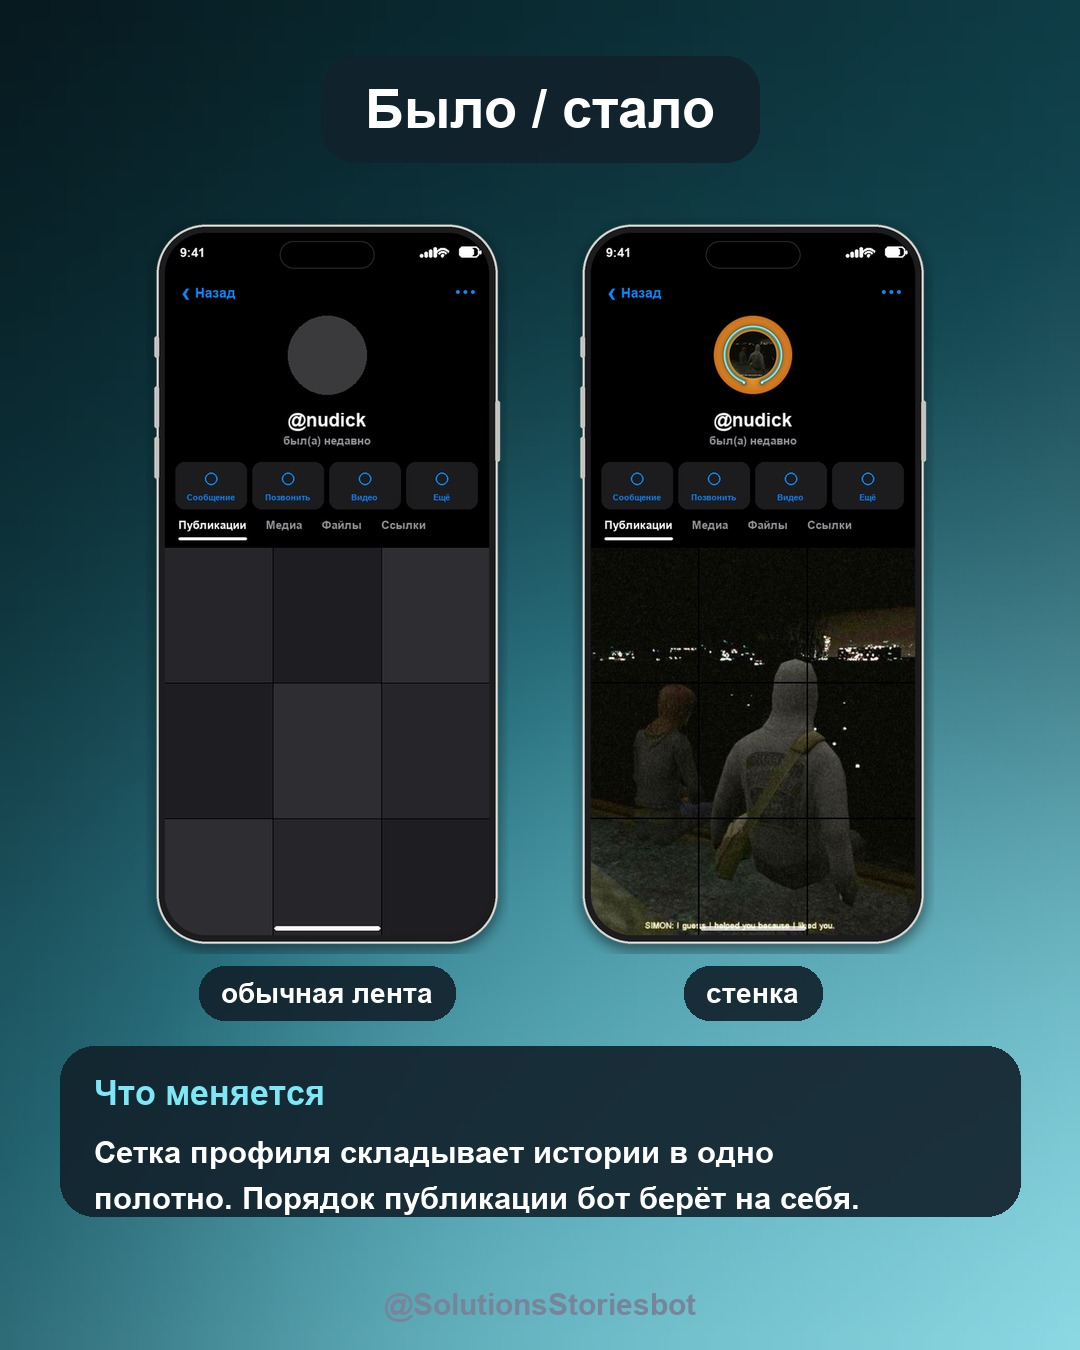
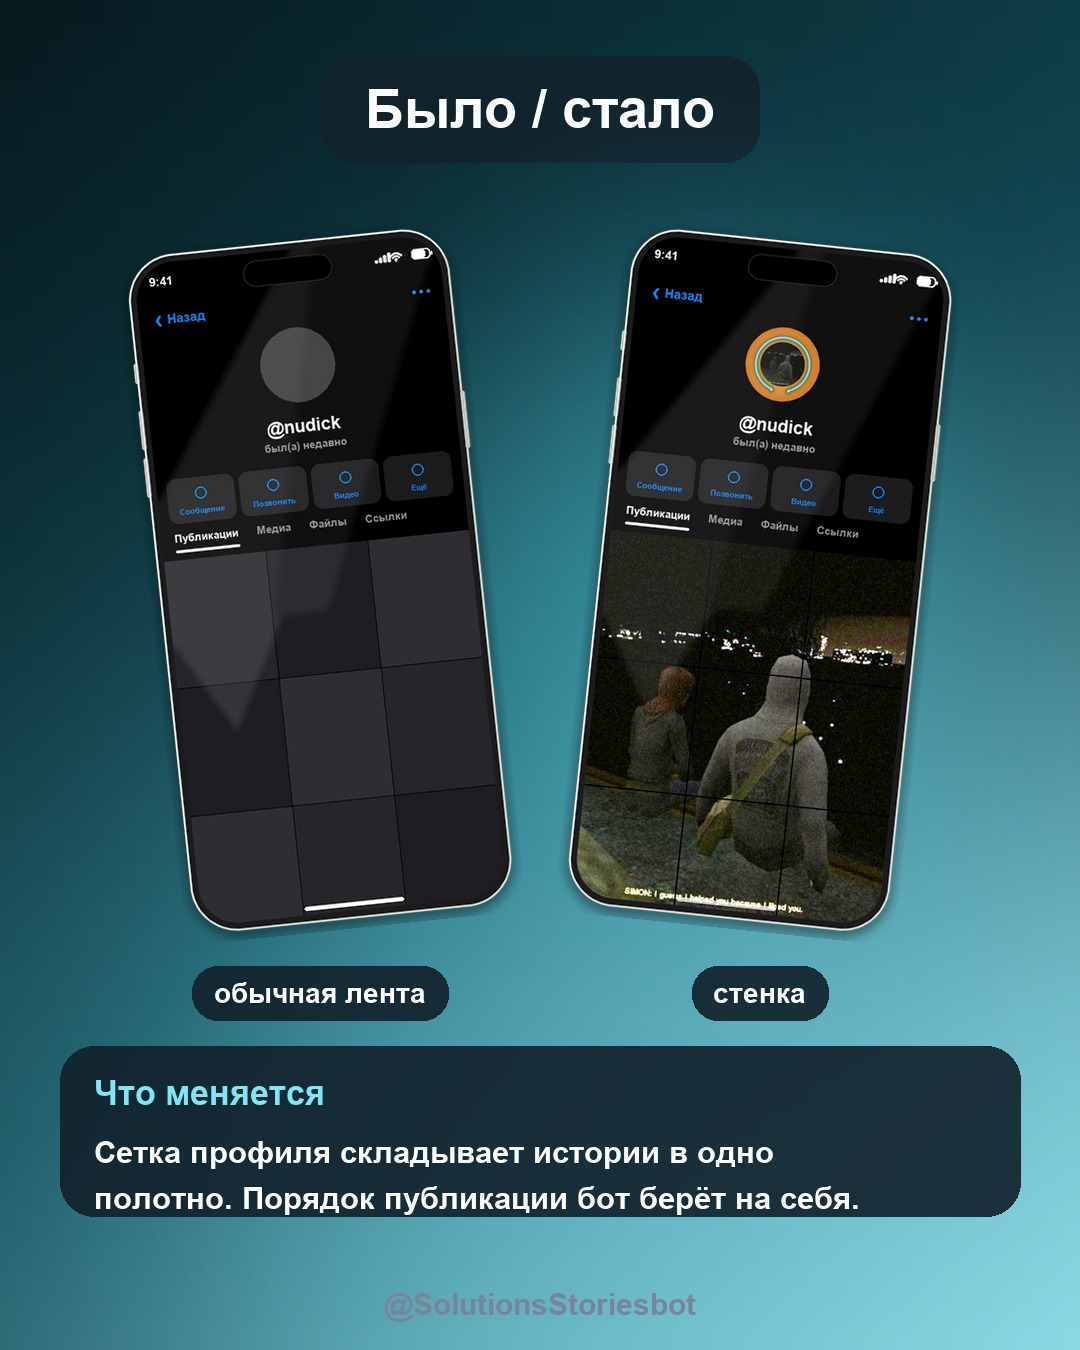
Витрина: объём у корпуса и живая композиция вместо фронтальной
Корпус получил блик по стеклу и световую кромку по верхне-левой грани.
Без отражения экран выглядит напечатанным на корпусе, а титан без
кромки — серой заливкой. Кромку оставляем только сверху и слева: блик
по всему периметру читается как обводка в редакторе.

Телефоны наклонены и вынесены из центра, справа — плавающие плашки,
перекрывающие корпус. «Телефон по центру, подпись снизу» — самая
скучная подача, какая бывает.

Свечение за корпусом подмешивается только там, где оно есть: маской
служит само пятно. Прошлая версия смешивала свет со всей карточкой, и
вместе с фоном выцветал заголовок.

Витринную стенку осветляем на 42%: исходник ночной, и девять почти
чёрных плиток не показывают ничего. Сама нарезка исходник не трогает.

Changed region(s): [[0.1222, 0.1556, 0.8861, 0.7467]]

diff --git a/make_assets.py b/make_assets.py
@@ -18,7 +18,7 @@ import math
 import sys
 from pathlib import Path
 
-from PIL import Image, ImageDraw, ImageFilter, ImageFont
+from PIL import Image, ImageDraw, ImageEnhance, ImageFilter, ImageFont
 
 import frames as frames_mod
 import slicer
@@ -198,12 +198,29 @@ def phone(inner: Image.Image) -> Image.Image:
         radius=radius - rail, fill=(28, 28, 30, 255),
     )
 
+    #: Блик по стеклу. Без него экран выглядит напечатанным на корпусе:
+    #: у настоящего телефона поверх картинки всегда лежит отражение.
+    glass = screen.convert("RGBA")
+    glare = Image.new("RGBA", screen.size, (0, 0, 0, 0))
+    gw, gh = screen.width, screen.height
+    ImageDraw.Draw(glare).polygon(
+        [(-gw * 0.15, gh * 0.46), (gw * 0.58, -gh * 0.05),
+         (gw * 1.05, -gh * 0.05), (gw * 0.18, gh * 0.72)],
+        fill=(255, 255, 255, 26),
+    )
+    ImageDraw.Draw(glare).polygon(
+        [(gw * 0.62, -gh * 0.05), (gw * 1.05, -gh * 0.05),
+         (gw * 0.52, gh * 0.55), (gw * 0.34, gh * 0.55)],
+        fill=(255, 255, 255, 16),
+    )
+    glass.alpha_composite(glare.filter(ImageFilter.GaussianBlur(gw * 0.012)))
+
     mask = Image.new("L", screen.size, 0)
     ImageDraw.Draw(mask).rounded_rectangle(
         (0, 0, screen.width - 1, screen.height - 1),
         radius=round(body_w * 0.145) - bezel, fill=255,
     )
-    canvas.paste(screen, (pad + bezel, pad + bezel), mask)
+    canvas.paste(glass, (pad + bezel, pad + bezel), mask)
 
     #: Dynamic Island — 125×36 pt при ширине 430 pt.
     island_w, island_h = round(screen.width * 0.291), round(screen.width * 0.084)
@@ -230,7 +247,70 @@ def phone(inner: Image.Image) -> Image.Image:
         (box[2] - rail, y0, box[2] + rail, y0 + round(body_h * 0.085)), radius=rail, fill=btn
     )
 
+    #: Световая кромка по верхне-левой грани: титан ловит свет ребром, и
+    #: без этой линии рамка остаётся серой заливкой.
+    rim = Image.new("RGBA", canvas.size, (0, 0, 0, 0))
+    ImageDraw.Draw(rim).rounded_rectangle(
+        (box[0] + 1, box[1] + 1, box[2] - 1, box[3] - 1), radius=radius,
+        outline=(255, 255, 255, 190), width=max(1, rail // 2),
+    )
+    #: Оставляем только верх и левый край — блик по всему периметру
+    #: выглядит как обводка в редакторе.
+    keep = Image.new("L", canvas.size, 0)
+    ImageDraw.Draw(keep).polygon(
+        [(0, 0), (canvas.width, 0), (0, canvas.height)], fill=255
+    )
+    canvas.alpha_composite(Image.composite(rim, Image.new("RGBA", canvas.size, (0, 0, 0, 0)), keep))
+
     return canvas.resize((canvas.width // ss, canvas.height // ss), Image.LANCZOS)
+
+
+def tilt(shell: Image.Image, angle: float) -> Image.Image:
+    """Наклонить корпус. Фронтальный телефон в упор — самая скучная подача."""
+    return shell.rotate(angle, resample=Image.BICUBIC, expand=True)
+
+
+def halo(card: Image.Image, cx: int, cy: int, radius: int, colour, strength: float = 0.55) -> None:
+    """Свечение за корпусом — телефон перестаёт лежать на плоскости.
+
+    Свет подмешивается ТОЛЬКО там, где он есть: маской служит само пятно.
+    Смешивать свечение со всей карточкой нельзя — тогда вместе с фоном
+    выцветает и заголовок, и подписи.
+    """
+    spot = Image.new("L", card.size, 0)
+    ImageDraw.Draw(spot).ellipse(
+        (cx - radius, cy - radius * 1.15, cx + radius, cy + radius * 1.15), fill=255
+    )
+    spot = spot.filter(ImageFilter.GaussianBlur(radius * 0.45))
+    spot = spot.point(lambda v: int(v * strength))
+    card.paste(Image.new("RGB", card.size, colour).convert(card.mode), (0, 0), spot)
+
+
+def floating_chip(card: Image.Image, xy, lines, size: int = 30) -> None:
+    """Плавающая подпись — приём из витрины конкурента.
+
+    Принимает несколько строк: две отдельные пилюли под одну фразу
+    читаются как обрывки, а не как подпись.
+    """
+    if isinstance(lines, str):
+        lines = [lines]
+    draw = ImageDraw.Draw(card, "RGBA")
+    face = font(size)
+    width = max(draw.textlength(line, font=face) for line in lines)
+    step = size + 12
+    x, y = xy
+    box = (x, y, x + width + 52, y + step * len(lines) + 24)
+    shadow = Image.new("RGBA", card.size, (0, 0, 0, 0))
+    ImageDraw.Draw(shadow).rounded_rectangle(
+        (box[0] + 4, box[1] + 9, box[2] + 4, box[3] + 9), radius=28, fill=(0, 16, 24, 150)
+    )
+    card.alpha_composite(shadow.filter(ImageFilter.GaussianBlur(11)))
+    draw = ImageDraw.Draw(card, "RGBA")
+    draw.rounded_rectangle(box, radius=28, fill=(255, 255, 255, 242))
+    cy = box[1] + 12 + step / 2
+    for line in lines:
+        draw.text(((box[0] + box[2]) / 2, cy), line, font=face, fill=(16, 32, 42), anchor="mm")
+        cy += step
 
 
 def status_bar(draw: ImageDraw.ImageDraw, width: int, colour=(255, 255, 255)) -> None:
@@ -330,6 +410,10 @@ def profile_screen(source: bytes, parts: int, width: int, name: str,
 
     gap = 2
     grid = wall_grid(source, parts, SCREEN_W, gap, seam=IOS_BG)
+    #: Витринную стенку осветляем: исходник — ночной кадр, и на превью
+    #: девять почти чёрных плиток не показывают ровным счётом ничего.
+    #: Это экспозиция демонстрации, сама нарезка исходник не трогает.
+    grid = ImageEnhance.Contrast(ImageEnhance.Brightness(grid).enhance(1.42)).enhance(1.12)
     #: Сетка уходит за нижний край — так и выглядит настоящий скриншот,
     #: аккуратно уместившаяся сетка сразу читается как макет.
     screen.paste(grid, (0, grid_top))
@@ -471,21 +555,22 @@ def make_welcome(source: bytes) -> Image.Image:
     title_plate(draw, "Стенка из сторис", top=44, size=58)
 
     shell = phone(profile_screen(source, 9, SCREEN_W, OWNER))
-    scale = 920 / shell.height
+    scale = 840 / shell.height
     shell = shell.resize((round(shell.width * scale), round(shell.height * scale)), Image.LANCZOS)
-    card.paste(shell, ((W - shell.width) // 2, 182), shell)
+    shell = tilt(shell, -7)
 
-    draw = ImageDraw.Draw(card, "RGBA")
-    #: Подпись в плашке, а не поверх градиента: внизу фон самый светлый,
-    #: и белый текст на нём исчезает.
-    face = font(38)
-    text = "Одна картинка — целый профиль"
-    width = draw.textlength(text, font=face)
-    draw.rounded_rectangle(
-        ((W - width) / 2 - 38, H - 158, (W + width) / 2 + 38, H - 84),
-        radius=RADIUS, fill=PLATE + (PLATE_ALPHA,),
-    )
-    draw.text((W / 2, H - 121), text, font=face, fill=INK, anchor="mm")
+    #: Свет за телефоном ставим до самого телефона, иначе он ляжет
+    #: поверх корпуса и получится туман.
+    halo(card, 330, 640, 300, (86, 220, 236), 0.42)
+    card = card.convert("RGBA")
+    card.alpha_composite(shell, (34, 210))
+
+    #: Плашки справа перекрывают корпус — из-за этого композиция
+    #: перестаёт быть «телефон по центру и подпись снизу».
+    floating_chip(card, (500, 296), "Красивое оформление")
+    floating_chip(card, (556, 600), ["Одна картинка —", "весь профиль"])
+    floating_chip(card, (518, 986), "Выделись среди других", 27)
+
     footer(card)
     return card
 
@@ -495,17 +580,23 @@ def make_about(source: bytes) -> Image.Image:
     draw = ImageDraw.Draw(card, "RGBA")
     title_plate(draw, "Было / стало")
 
+    #: Наклон навстречу друг другу: два одинаково стоящих корпуса
+    #: читаются как таблица, развёрнутые — как сравнение.
     shells = []
-    for inner in (blank_screen(OWNER), profile_screen(source, 9, SCREEN_W, OWNER)):
+    for inner, angle in ((blank_screen(OWNER), 6), (profile_screen(source, 9, SCREEN_W, OWNER), -6)):
         shell = phone(inner)
-        scale = 740 / shell.height
-        shells.append(
-            shell.resize((round(shell.width * scale), round(shell.height * scale)), Image.LANCZOS)
-        )
-    gap = 64
-    span = shells[0].width * 2 + gap
-    for index, shell in enumerate(shells):
-        card.paste(shell, ((W - span) // 2 + index * (shell.width + gap), 214), shell)
+        scale = 700 / shell.height
+        shell = shell.resize((round(shell.width * scale), round(shell.height * scale)),
+                             Image.LANCZOS)
+        shells.append(tilt(shell, angle))
+
+    halo(card, 700, 560, 250, (86, 220, 236), 0.34)
+    gap = 26
+    span = shells[0].width + shells[1].width + gap
+    x = (W - span) // 2
+    for shell in shells:
+        card.paste(shell, (x, 214), shell)
+        x += shell.width + gap
 
     draw = ImageDraw.Draw(card, "RGBA")
     for index, label in enumerate(("обычная лента", "стенка")):
